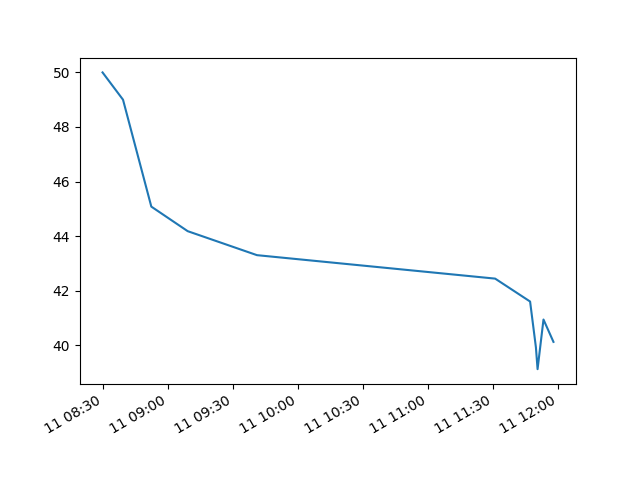
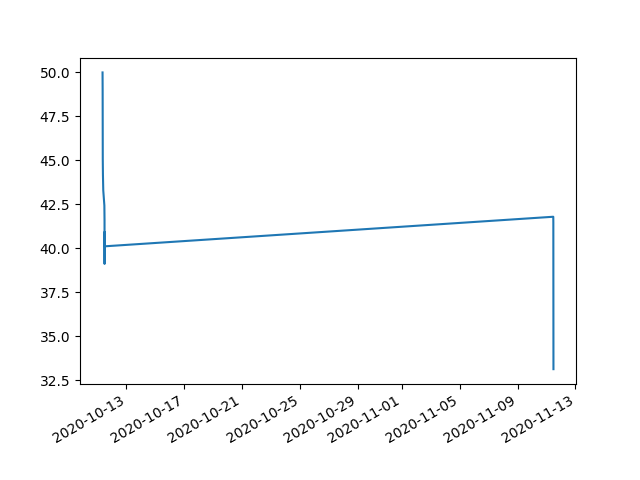
fixed refresh issue

diff --git a/scrape.py b/scrape.py
@@ -32,12 +32,14 @@ if None in [S_INDEX_USER, S_INDEX_PASS, ODD_M_USER, ODD_M_PASS]:
     raise NameError('Update .env with a vars')
 
 
-def show_info(count):
+def show_info(count, expected_returns):
     diff = time() - START_TIME
     hours = int(diff // 60**2)
     mins = int(diff // 60 - hours * 60)
     secs = round(diff - mins * 60)
-    print(f'Time alive: {hours}:{mins}:{secs}')
+    print(
+        f'Time alive: {hours}:{mins}:{secs} - Expected returns: £{expected_returns}'
+    )
     print(f'Refreshes: {count}')
 
 
@@ -174,7 +176,7 @@ def find_races():
     }
 
 
-def make_sporting_index_bet(race):
+def make_sporting_index_bet(race, expected_returns):
     driver.switch_to.window(driver.window_handles[1])
     driver.refresh()
     el = WebDriverWait(driver, 30).until(
@@ -213,10 +215,14 @@ def make_sporting_index_bet(race):
                              "//button[contains(text(), 'Continue')]")))
                     el.click()
                     print('Bet made\n')
+                    expected_returns += race['ew_stake'] * race['rating']
                     driver.refresh()
                     update_csv(race)
                 else:
                     print('Stake must be too small to make reliable profit')
+                    driver.find_element_by_xpath(
+                        "//li[@class='close']//wgt-spin-icon[@class='close-bet']"
+                    ).click()
             else:
                 print(
                     f"Odds have changed - before: {float(race['horse_odds'])} after: {float(cur_odd_price.text)}\n"
@@ -228,7 +234,7 @@ def make_sporting_index_bet(race):
             print('cur_odd_price is an empty string')
     driver.get(
         'https://www.sportingindex.com/fixed-odds/horse-racing/race-calendar')
-    return race
+    return race, expected_returns
 
 
 def refresh_sporting_index(driver, count):
@@ -250,14 +256,15 @@ def refresh_odds_monkey(driver):
 login()
 change_to_decimal()
 count = 0
+expected_returns = 0
 race = {'rating': 100, 'returns_probability': 95, 'ew_stake': 0.1}
 race['balance'] = get_balance_sporting_index(driver)
 driver.switch_to.window(driver.window_handles[0])
 while True:
     # So sporting index dosent logout
-    if count % 7 == 0:
+    if count % 4 == 0:
         refresh_sporting_index(driver, count)
-        show_info(count)
+        show_info(count, expected_returns)
 
     driver.switch_to.window(driver.window_handles[0])
     sleep(REFRESH_TIME)
@@ -266,7 +273,7 @@ while True:
         race.update(find_races())
         if float(race['horse_odds']) != 100:
             try:
-                race = make_sporting_index_bet(race)
+                race, expected_returns = make_sporting_index_bet(race, expected_returns)
             except NoSuchElementException as e:
                 print('Bet failed\n%s\n' % e)
                 print('------------------------------\n')

diff --git a/graph.py b/graph.py
@@ -22,7 +22,7 @@ def plot_expected_profit(df):
     print(bal_list)
     df = pd.DataFrame(bal_list, columns=['balance', 'current_time'])
 
-    plt.plot(y)
+    plt.plot(bal_list)
     plt.gcf().autofmt_xdate()
     plt.savefig('graphs/expected-returns.png')
 
@@ -34,4 +34,4 @@ df = pd.read_csv('returns.csv',
                  squeeze=True)
 # print(df)
 plot_bal_time_series_graph(df)
-plot_expected_profit(df)
+# plot_expected_profit(df)

diff --git a/sim.py b/sim.py
@@ -29,7 +29,7 @@ def find_stake(odds, rating, balance):
         for i in range(1000):
             if simulate_bet(0.1, odds, rating, balance):
                 count += 1
-        if count >= 950:
+        if count >= 800:
             # print(0.1, count / 10)
             return 0.1, (count / 10)
         else:
